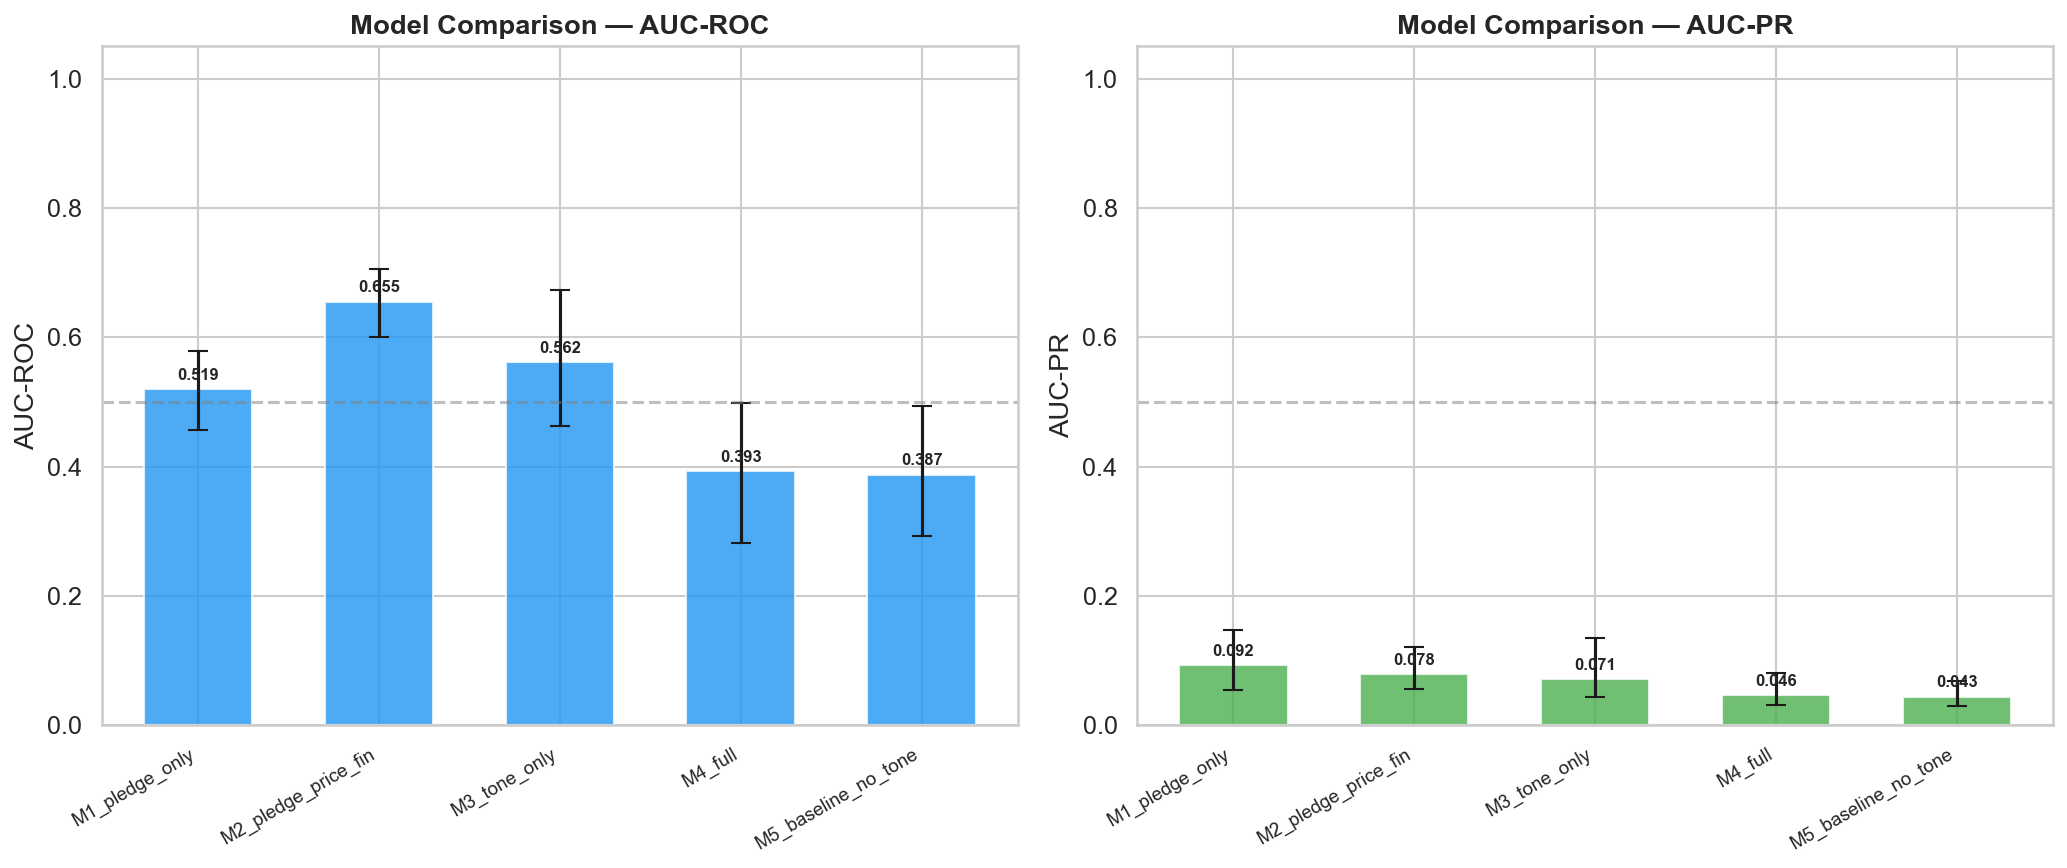
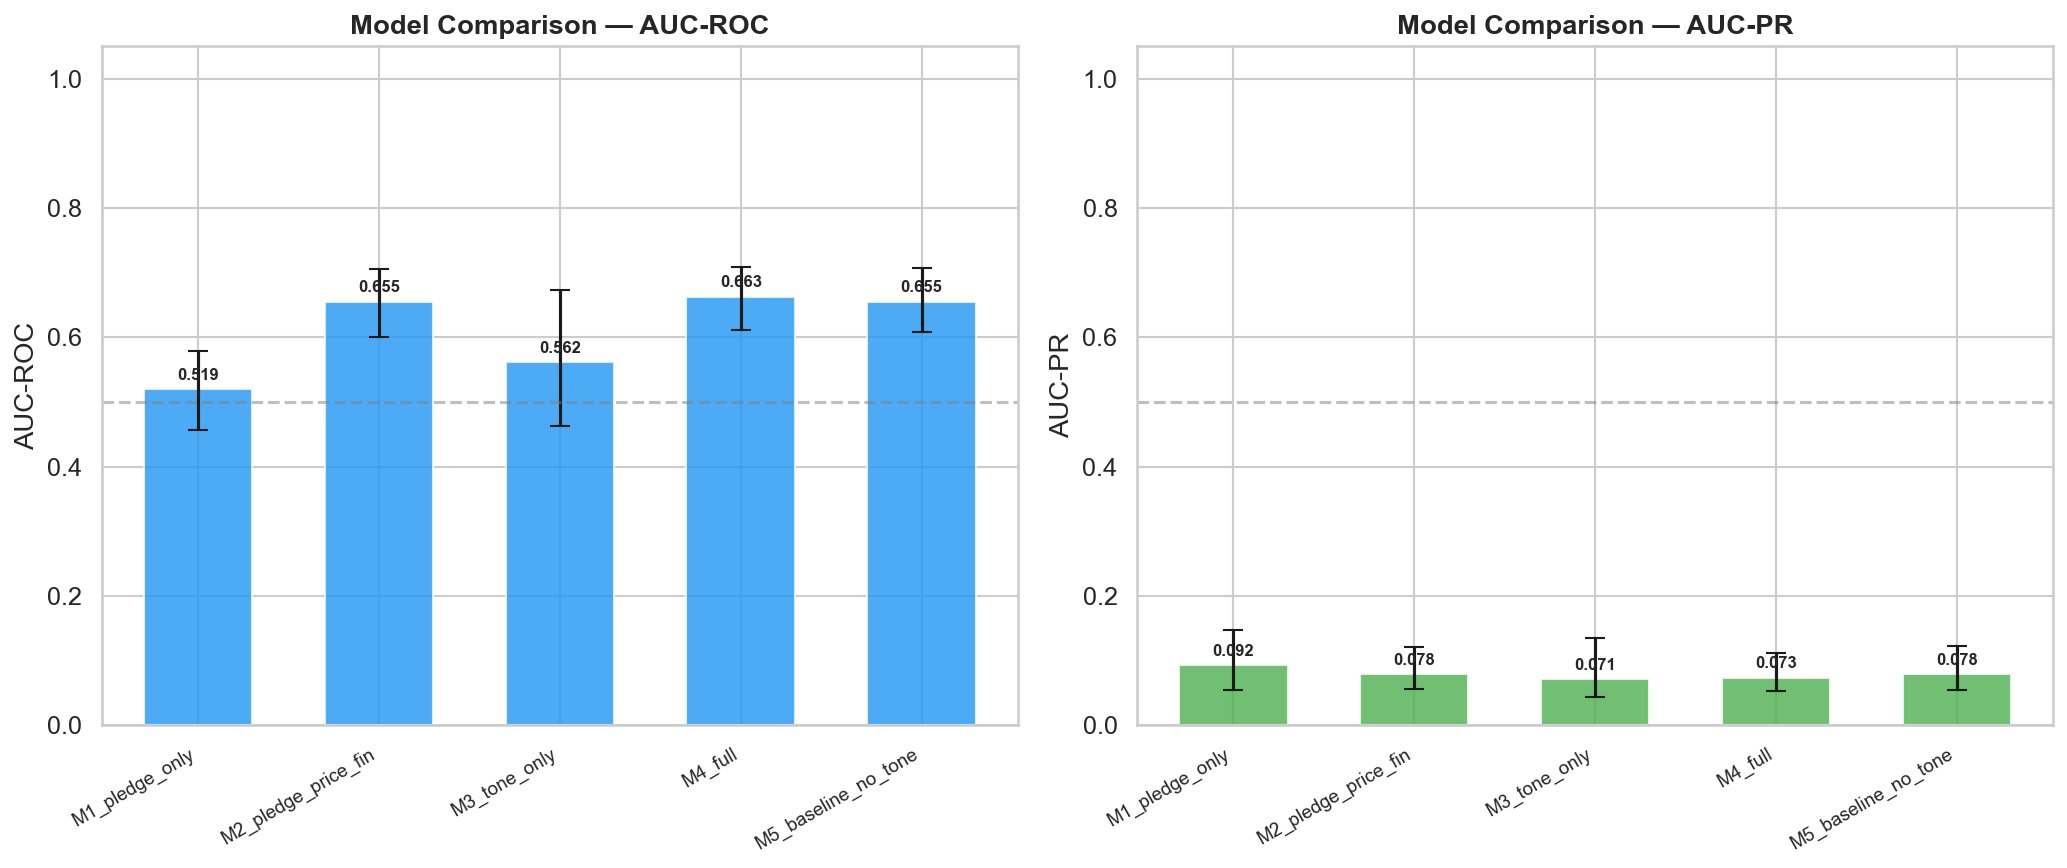
Fix M4/M5: train on full dataset with tone imputed, not tone-only subset M4 AUC-ROC improved from 0.393 (below random) to 0.663 (best model). Root cause: filtering to 9.5% tone-covered rows gave only 72 training positives, causing XGBoost to fail. Fix: impute tone features as -1 where unavailable, t

Changed region(s): [[0.3096, 0.3111, 0.4954, 0.5599], [0.836, 0.7465, 0.9908, 0.8088]]

diff --git a/src/modeling/train.py b/src/modeling/train.py
@@ -113,16 +113,25 @@ def run_phase_3a():
     train_df = df[df["split"] == "train"].copy()
     val_df = df[df["split"] == "val"].copy()
 
-    # Tone-available subsets for fair comparison
+    # Tone-available subsets for M3 (tone-only ablation)
     train_tone = train_df[train_df["tone_available"] == 1].copy()
     val_tone = val_df[val_df["tone_available"] == 1].copy()
+
+    # M4/M5: train on FULL dataset; tone features imputed -1 where missing.
+    # This lets the model use tone where available while keeping full training size.
+    train_full_imputed = train_df.copy()
+    val_full_imputed = val_df.copy()
+    for feat in TONE_FEATURES:
+        if feat in train_full_imputed.columns:
+            train_full_imputed[feat] = train_full_imputed[feat].fillna(-1)
+            val_full_imputed[feat] = val_full_imputed[feat].fillna(-1)
 
     model_configs = {
         "M1_pledge_only": (train_df, val_df, PLEDGE_FEATURES),
         "M2_pledge_price_fin": (train_df, val_df, PLEDGE_FEATURES + PRICE_FIN_FEATURES),
         "M3_tone_only": (train_tone, val_tone, TONE_FEATURES),
-        "M4_full": (train_tone, val_tone, PLEDGE_FEATURES + PRICE_FIN_FEATURES + TONE_FEATURES),
-        "M5_baseline_no_tone": (train_tone, val_tone, PLEDGE_FEATURES + PRICE_FIN_FEATURES),
+        "M4_full": (train_full_imputed, val_full_imputed, PLEDGE_FEATURES + PRICE_FIN_FEATURES + TONE_FEATURES),
+        "M5_baseline_no_tone": (train_df, val_df, PLEDGE_FEATURES + PRICE_FIN_FEATURES),
     }
 
     trained_models = {}

diff --git a/src/modeling/evaluate.py b/src/modeling/evaluate.py
@@ -117,6 +117,17 @@ def run_phase_3b():
     test_df = df[df["split"] == "test"].copy()
     test_tone = test_df[test_df["tone_available"] == 1].copy()
 
+    # M4 trained on full data with tone imputed -1; evaluate same way
+    TONE_FEATURES = [
+        "evasiveness_score", "confidence_score", "debt_mention_count",
+        "reassurance_score", "analyst_tension_score", "guidance_vagueness_score",
+        "liquidity_stress_mentions", "tone_shift_flag", "overall_distress_score",
+    ]
+    test_full_imputed = test_df.copy()
+    for feat in TONE_FEATURES:
+        if feat in test_full_imputed.columns:
+            test_full_imputed[feat] = test_full_imputed[feat].fillna(-1)
+
     model_files = list(MODELS_DIR.glob("*.pkl"))
     model_files = [f for f in model_files if "feature_lists" not in f.name]
 
@@ -124,8 +135,8 @@ def run_phase_3b():
         "M1_pledge_only": test_df,
         "M2_pledge_price_fin": test_df,
         "M3_tone_only": test_tone,
-        "M4_full": test_tone,
-        "M5_baseline_no_tone": test_tone,
+        "M4_full": test_full_imputed,
+        "M5_baseline_no_tone": test_df,
     }
 
     results = []
